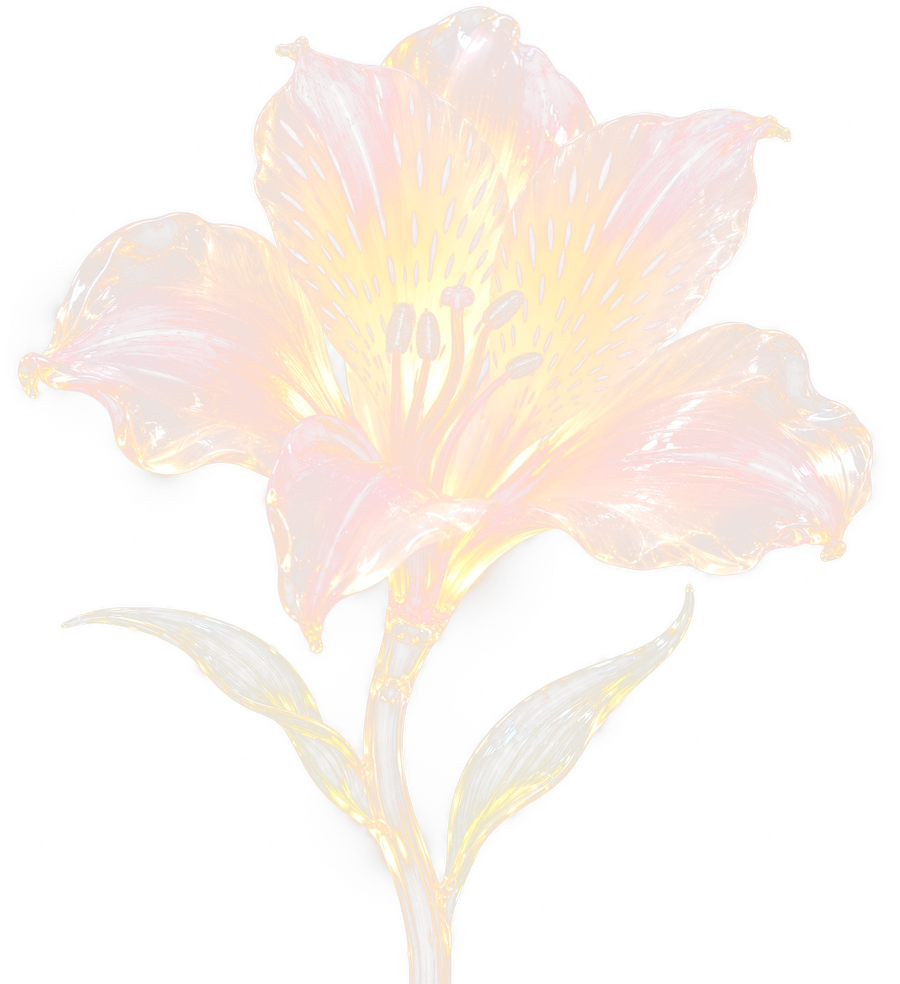
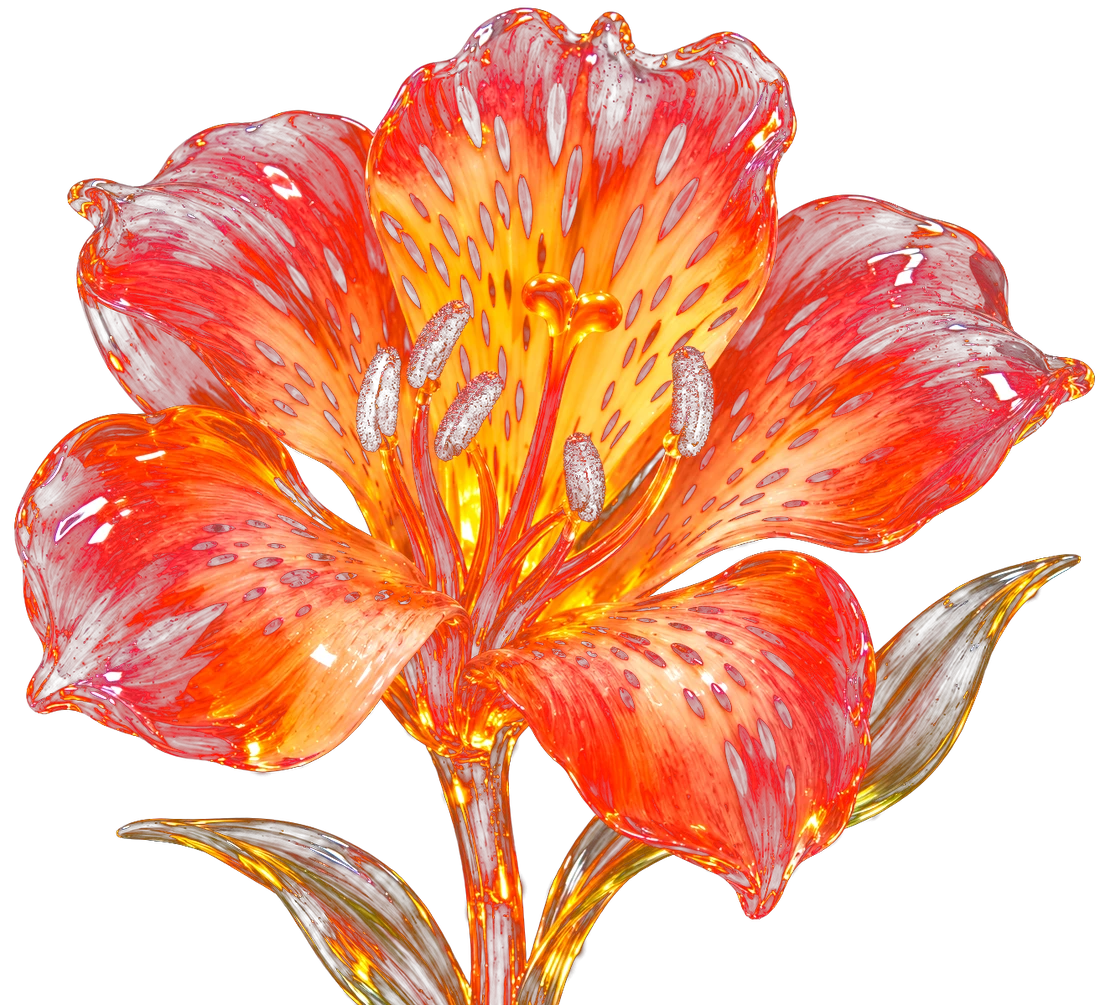
Айфон в сцене, плотная альстромерия, прозрачные кнопки, Telegram @IOpaWho
- экран телефона теперь внутри корпуса iPhone с динамическим островом, крупнее
- панели увеличены и перекрываются как стеклянные плиты на стойке
- альстромерия перегенерирована: плотное цветное стекло, ярче и заметнее
- кнопки и вкладка Telegram — прозрачное жидкое стекло без оранжевой заливки
- ссылки Telegram на @IOpaWho

diff --git a/workshop.css b/workshop.css
@@ -299,12 +299,12 @@ a { color: inherit; }
 }
 
 .tab--accent {
-  color: #1b0c05;
-  background: radial-gradient(130% 150% at 20% 0%, rgba(255, 238, 208, 0.97), rgba(250, 126, 62, 0.92) 52%, rgba(232, 96, 31, 0.97));
-  border-color: rgba(255, 236, 200, 0.65);
-  box-shadow: inset 0 1px 0 rgba(255, 255, 255, 0.55), inset 0 -2px 8px rgba(120, 30, 0, 0.5), 0 12px 26px -14px rgba(244, 87, 31, 0.8);
+  color: var(--bone);
+  border-color: rgba(255, 255, 255, 0.3);
+  background: radial-gradient(130% 150% at 20% 0%, rgba(255, 255, 255, 0.28), rgba(255, 255, 255, 0.08) 48%, rgba(255, 255, 255, 0.03) 82%);
+  box-shadow: inset 0 1px 0 rgba(255, 255, 255, 0.5), inset 0 -2px 8px rgba(0, 0, 0, 0.35), 0 12px 26px -16px rgba(0, 0, 0, 0.9);
 }
-.tab--accent:hover { color: #1b0c05; }
+.tab--accent:hover { color: var(--bone); border-color: rgba(255, 255, 255, 0.5); }
 
 /* ---------- Первый экран ---------- */
 
@@ -418,13 +418,14 @@ a { color: inherit; }
 .btn--glass { color: var(--bone); }
 
 .btn--ember {
-  color: #180b05;
-  border-color: rgba(255, 236, 200, 0.65);
-  background: radial-gradient(125% 145% at 16% 0%, rgba(255, 240, 214, 0.97), rgba(250, 126, 62, 0.93) 46%, rgba(232, 96, 31, 0.97));
+  color: var(--bone);
+  border-color: rgba(255, 255, 255, 0.34);
+  background:
+    radial-gradient(125% 145% at 18% 0%, rgba(255, 255, 255, 0.3), rgba(255, 255, 255, 0.09) 44%, rgba(255, 255, 255, 0.03) 74%);
   box-shadow:
-    inset 0 1px 0 rgba(255, 255, 255, 0.65),
-    inset 0 -3px 10px rgba(120, 34, 0, 0.5),
-    0 18px 38px -18px rgba(244, 87, 31, 0.8);
+    inset 0 1px 0 rgba(255, 255, 255, 0.55),
+    inset 0 -2px 9px rgba(0, 0, 0, 0.4),
+    0 18px 40px -20px rgba(0, 0, 0, 0.95);
 }
 
 .btn--big { padding: 19px 32px; font-size: 1.02rem; }
@@ -444,7 +445,7 @@ a { color: inherit; }
 
 .rig {
   position: relative;
-  aspect-ratio: 660 / 590;
+  aspect-ratio: 660 / 640;
   padding-left: clamp(16px, 2vw, 26px);
   perspective: 1200px;
 }
@@ -534,33 +535,91 @@ a { color: inherit; }
     0 0 0 1px rgba(255, 169, 77, 0.35);
 }
 
-.panel--main { left: 0; top: 3%; width: 58%; transform: rotate(-0.8deg); }
-.panel--shelf { right: 1%; top: 13%; width: 29%; transform: rotate(1deg); }
-.panel--phone { left: 1%; top: 46%; width: 15%; transform: rotate(-1.4deg); }
+.panel--main { left: 0; top: 0; width: 66%; transform: rotate(-1deg); }
+.panel--shelf { left: 29%; top: 44%; width: 46%; transform: rotate(1.2deg); }
+
+/* Айфон на стойке: экран кейса внутри настоящего корпуса */
+.phone-mock {
+  position: absolute;
+  right: 0;
+  bottom: 0;
+  width: 24%;
+  margin: 0;
+  z-index: 4;
+  transform: rotate(-2.5deg);
+}
+.phone-body {
+  position: relative;
+  padding: 7px;
+  border-radius: 34px;
+  background: linear-gradient(155deg, #6a5a4a 0%, #241d18 26%, #3d332b 58%, #15110e 100%);
+  box-shadow:
+    0 42px 70px -34px rgba(0, 0, 0, 0.98),
+    inset 0 0 0 1px rgba(255, 255, 255, 0.28),
+    inset 0 0 0 3px rgba(0, 0, 0, 0.6);
+}
+.phone-body::after {
+  content: "";
+  position: absolute;
+  right: -3px;
+  top: 22%;
+  width: 3px;
+  height: 16%;
+  border-radius: 0 3px 3px 0;
+  background: linear-gradient(180deg, #4a3f34, #1b1512);
+  box-shadow: 0 34px 0 0 #2c251e, 0 62px 0 0 #2c251e;
+}
+.phone-screen {
+  position: relative;
+  border-radius: 28px;
+  overflow: hidden;
+  background: #000;
+  box-shadow: inset 0 0 24px rgba(0, 0, 0, 0.9);
+}
+.phone-screen img { display: block; width: 100%; height: auto; }
+.phone-island {
+  position: absolute;
+  top: 13px;
+  left: 50%;
+  transform: translateX(-50%);
+  width: 32%;
+  height: 7px;
+  border-radius: 99px;
+  background: #060505;
+  z-index: 3;
+  box-shadow: inset 0 0 3px rgba(255, 255, 255, 0.18), 0 0 8px rgba(0, 0, 0, 0.9);
+}
+.phone-mock figcaption {
+  margin-top: 10px;
+  font-size: 0.75rem;
+  line-height: 1.35;
+  letter-spacing: 0.04em;
+  color: var(--bone-dim);
+  text-align: center;
+}
 
 .bloom {
   position: absolute;
-  right: 3%;
-  bottom: -7%;
-  width: 30%;
+  left: -5%;
+  bottom: -6%;
+  width: 32%;
   margin: 0;
-  z-index: 3;
+  z-index: 5;
   pointer-events: none;
 }
 .bloom img {
   display: block;
   width: 100%;
-  transform: scaleX(-1) rotate(-4deg);
-  filter: drop-shadow(0 0 54px rgba(255, 138, 61, 0.65)) brightness(1.28) saturate(1.15) contrast(1.04);
+  transform: scaleX(-1) rotate(-3deg);
+  filter: drop-shadow(0 0 70px rgba(255, 130, 50, 0.7)) brightness(1.15) saturate(1.2);
 }
 .bloom figcaption {
-  margin-top: 4px;
+  margin-top: 6px;
   font-size: 0.75rem;
   line-height: 1.35;
   letter-spacing: 0.02em;
-  color: var(--bone-dim);
-  max-width: 26ch;
-  text-align: right;
+  color: var(--bone);
+  max-width: 24ch;
 }
 
 /* ---------- Кейс ---------- */
@@ -971,8 +1030,8 @@ h2 {
   .panel::before { display: none; }
   .rig-cross { display: none; }
   .rig-arm { display: none; }
-  .panel--phone { width: 46%; }
-  .bloom { right: 0; bottom: 0; width: 48%; }
+  .phone-mock { position: relative; right: auto; bottom: auto; width: 62%; margin-inline: auto; transform: none; }
+  .bloom { left: 0; right: auto; bottom: 0; width: 40%; }
   .bloom figcaption { font-size: 0.72rem; }
 
   .case-head,

diff --git a/index.html b/index.html
@@ -36,7 +36,7 @@
         <a class="tab" href="#work">Работа</a>
         <a class="tab" href="#process">Процесс</a>
         <a class="tab" href="#about">Обо мне</a>
-        <a class="tab tab--accent" href="https://t.me/+79292322074" target="_blank" rel="noopener">Telegram<span aria-hidden="true"> ↗</span></a>
+        <a class="tab tab--accent" href="https://t.me/IOpaWho" target="_blank" rel="noopener">Telegram<span aria-hidden="true"> ↗</span></a>
       </nav>
     </div>
   </div>
@@ -58,7 +58,7 @@
         <p class="lead fade">Собираю страницы для небольших бизнесов: сначала разбираю задачу, потом ищу форму, потом проверяю на прочность. Один кейс открыт целиком: его можно потрогать.</p>
         <div class="actions fade">
           <a class="btn btn--glass btn--ember" href="#work">Открыть кейс<span class="arr" aria-hidden="true">↓</span></a>
-          <a class="btn btn--glass" href="https://t.me/+79292322074" target="_blank" rel="noopener">Написать в Telegram</a>
+          <a class="btn btn--glass" href="https://t.me/IOpaWho" target="_blank" rel="noopener">Написать в Telegram</a>
         </div>
         <p class="facts fade">Воронеж · работаю удалённо по России · один подтверждённый кейс</p>
       </div>
@@ -80,14 +80,18 @@
           <figcaption>Витрина · выбор и цены</figcaption>
         </figure>
 
-        <figure class="panel panel--phone" data-float="3">
-          <div class="panel-heat" aria-hidden="true"></div>
-          <img src="assets/lyublyu-mobile.webp" width="390" height="844" alt="Мобильная версия демо-макета: карточка букета и заказ" loading="lazy" decoding="async">
+        <figure class="phone-mock" data-float="3">
+          <div class="phone-body">
+            <span class="phone-island" aria-hidden="true"></span>
+            <div class="phone-screen">
+              <img src="assets/lyublyu-mobile.webp" width="390" height="844" alt="Мобильная версия демо-макета: карточка букета и заказ" loading="lazy" decoding="async">
+            </div>
+          </div>
           <figcaption>Телефон · заказ</figcaption>
         </figure>
 
         <figure class="bloom">
-          <img src="assets/glass-alstroemeria-bright.webp" width="900" height="984" alt="Стеклянная альстромерия, светящаяся как только что выдутая" loading="lazy" decoding="async">
+          <img src="assets/glass-alstroemeria-bright.webp" width="1100" height="1005" alt="Стеклянная альстромерия, светящаяся как только что выдутая" loading="lazy" decoding="async">
           <figcaption>Стеклянная альстромерия: образ формы</figcaption>
         </figure>
       </div>
@@ -204,13 +208,13 @@
       <h2 id="contact-title" class="fade">Расскажите, чем занимаетесь</h2>
       <p class="lead fade">Хватит двух-трёх предложений: что за бизнес, что хотите показать и как сейчас принимают заказы. Отвечу в тот же день и скажу, что имеет смысл делать с сайтом.</p>
       <div class="contact-actions fade">
-        <a class="btn btn--glass btn--ember btn--big" href="https://t.me/+79292322074" target="_blank" rel="noopener">Написать в Telegram<span class="arr" aria-hidden="true">↗</span></a>
+        <a class="btn btn--glass btn--ember btn--big" href="https://t.me/IOpaWho" target="_blank" rel="noopener">Написать в Telegram<span class="arr" aria-hidden="true">↗</span></a>
         <a class="btn btn--glass" href="https://vk.ru/see_the_root" target="_blank" rel="noopener">ВКонтакте</a>
         <a class="phone" href="tel:+79292322074">+7 929 232-20-74</a>
       </div>
       <p class="note fade">Если сайт уже есть, пришлите ссылку: посмотрю и скажу, что мешает людям писать вам.</p>
     </div>
-    <img class="bloom-echo" src="assets/glass-alstroemeria-bright.webp" width="900" height="984" alt="" aria-hidden="true" loading="lazy" decoding="async">
+    <img class="bloom-echo" src="assets/glass-alstroemeria-bright.webp" width="1100" height="1005" alt="" aria-hidden="true" loading="lazy" decoding="async">
   </section>
 
 </main>

diff --git a/workshop.js b/workshop.js
@@ -66,7 +66,7 @@
   /* ---------- Первый экран: стекло остывает ---------- */
 
   var lines = gsap.utils.toArray('.hero h1 .line-in');
-  var panels = gsap.utils.toArray('.panel');
+  var panels = gsap.utils.toArray('.panel, .phone-mock');
   var heat = gsap.utils.toArray('.panel-heat');
   var bloom = document.querySelector('.bloom');
 

diff --git a/PRODUCT.md b/PRODUCT.md
@@ -28,7 +28,7 @@ web
 
 ## Brand Commitments
 
-Имя: Юрий. Город: Воронеж; работа удалённая, география заказчиков — Россия. Голос: спокойный, конкретный, без рекламного пафоса и без обещаний непроверенных цифр; честно называется стадия работ (демо-макет, а не запущенный клиентский сайт). Контакты: Telegram (по номеру +7 929 232-20-74), ВКонтакте vk.ru/see_the_root, телефон +7 929 232-20-74. WhatsApp владелец не использует.
+Имя: Юрий. Город: Воронеж; работа удалённая, география заказчиков — Россия. Голос: спокойный, конкретный, без рекламного пафоса и без обещаний непроверенных цифр; честно называется стадия работ (демо-макет, а не запущенный клиентский сайт). Контакты: Telegram @IOpaWho, ВКонтакте vk.ru/see_the_root, телефон +7 929 232-20-74. WhatsApp владелец не использует.
 
 ## Evidence on Hand
 

diff --git a/README.md b/README.md
@@ -7,7 +7,7 @@
 - Первый экран: заголовок, лид, два действия и стойка с тремя экранами демо-кейса и стеклянной альстромерией.
 - Кейс «Люблю, целую»: сравнение «было / стало» ползунком, список сделанного, честная оговорка о стадии работы.
 - Процесс работы: разбор задачи, форма, сборка, отжиг.
-- Услуги, портрет, контакты (Telegram, ВКонтакте, телефон).
+- Услуги, портрет, контакты (Telegram @IOpaWho, ВКонтакте, телефон).
 
 Отзывов, цен, логотипов клиентов и метрик на странице нет намеренно: их не существует. Портфолио показывает один демонстрационный макет, а не выдаёт его за запущенный клиентский сайт.
 
